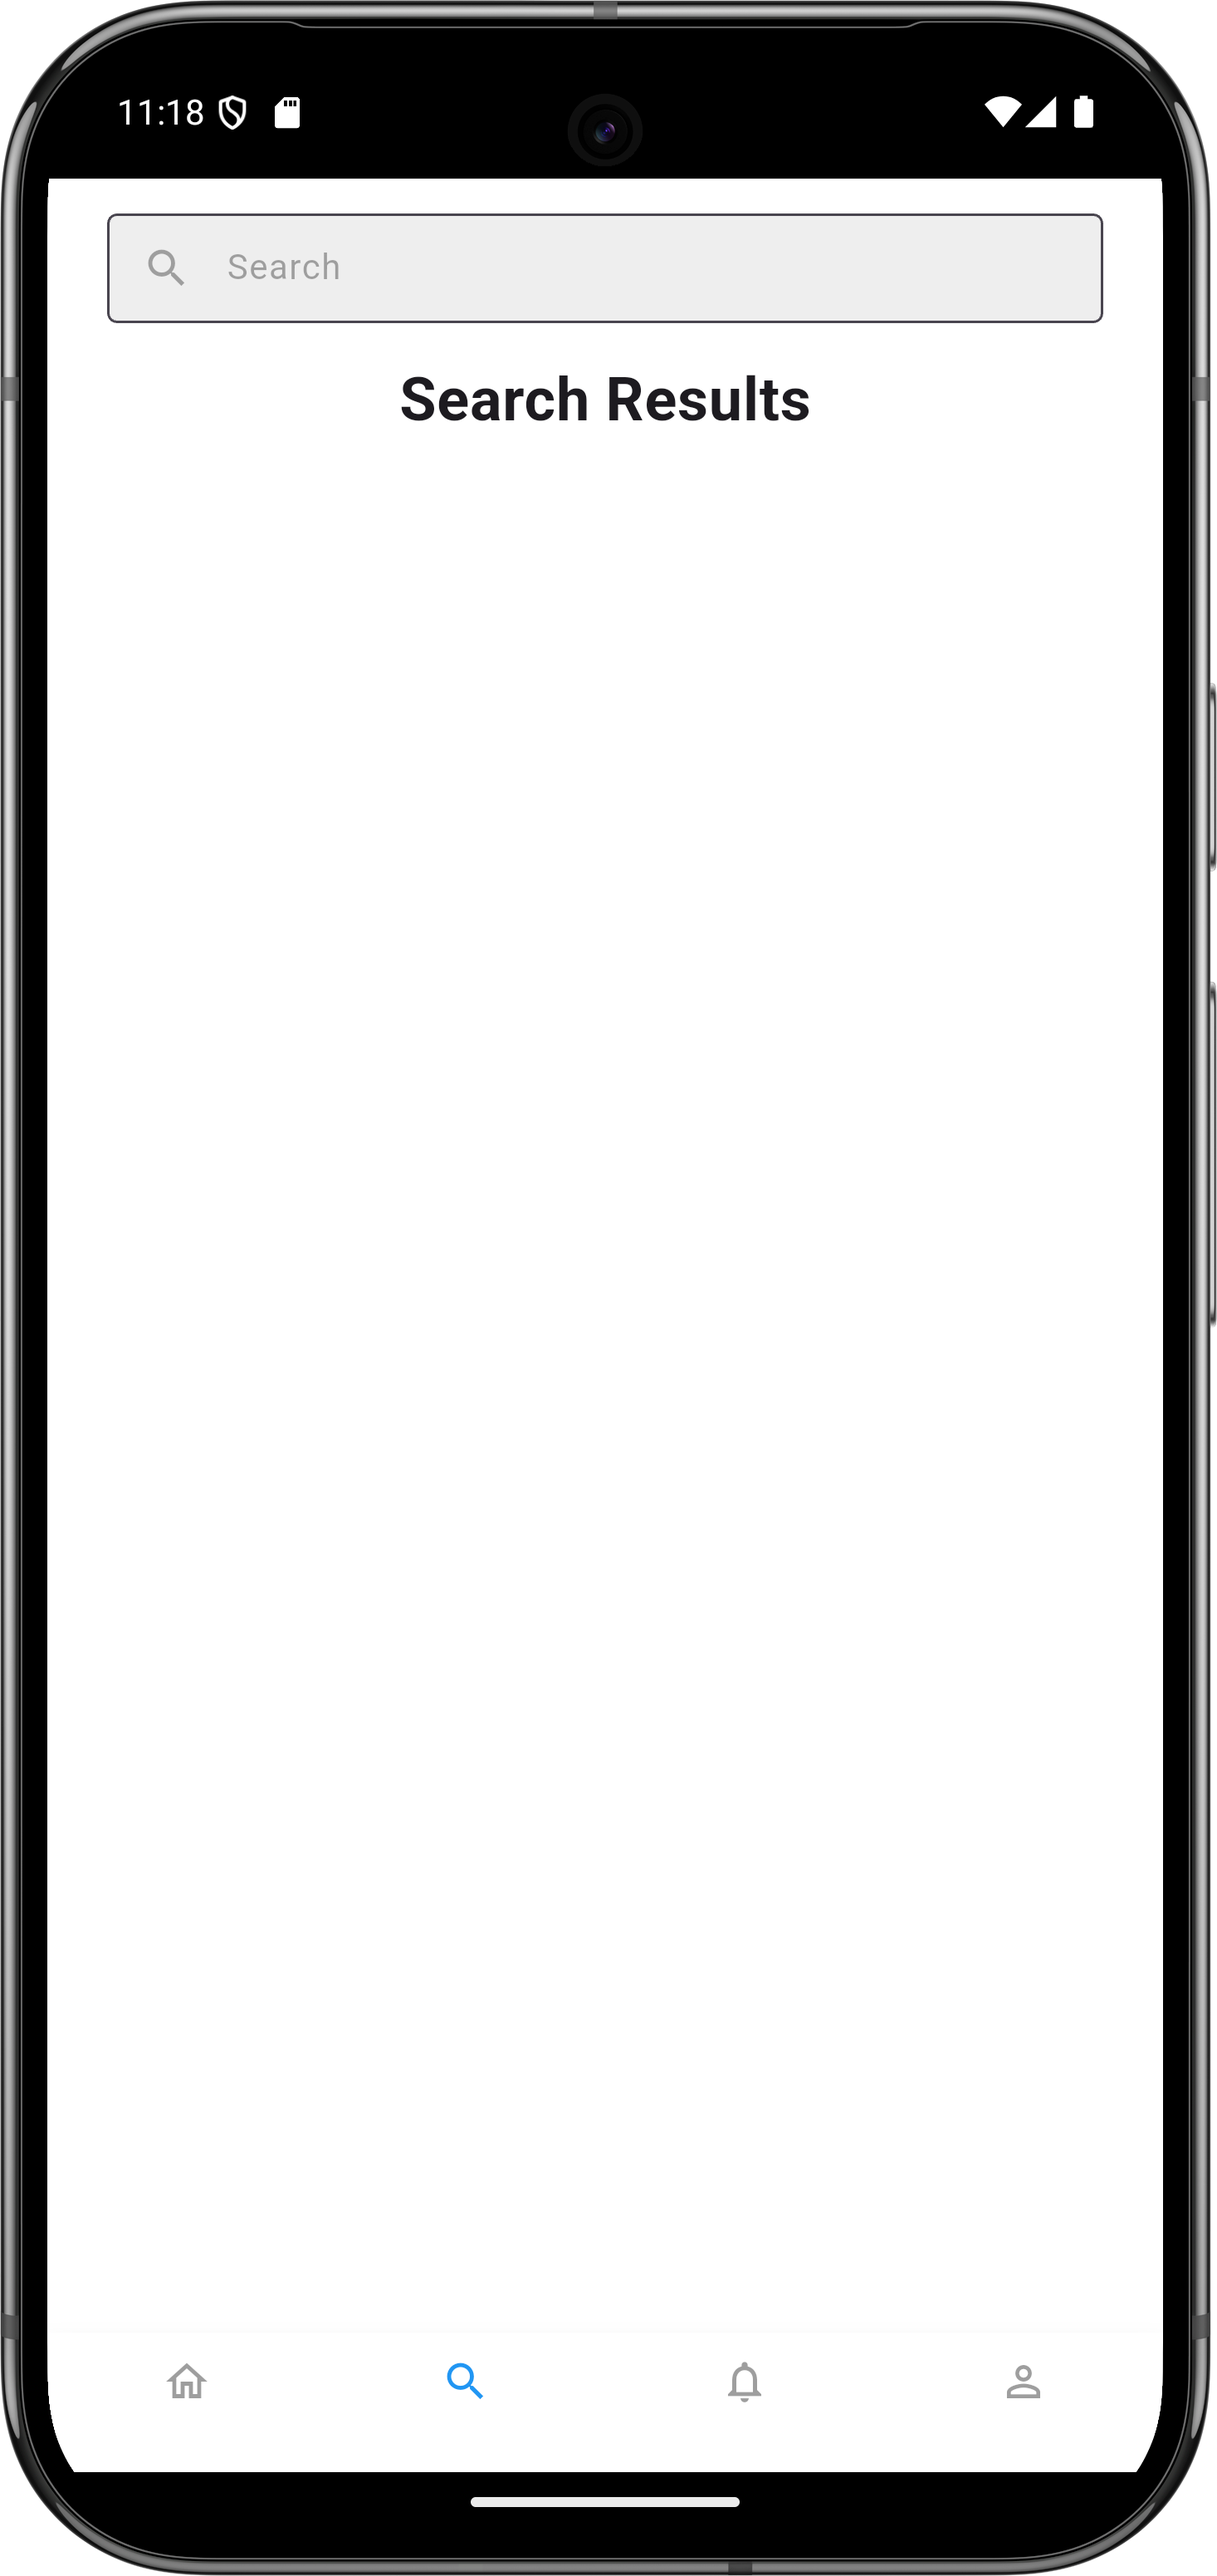
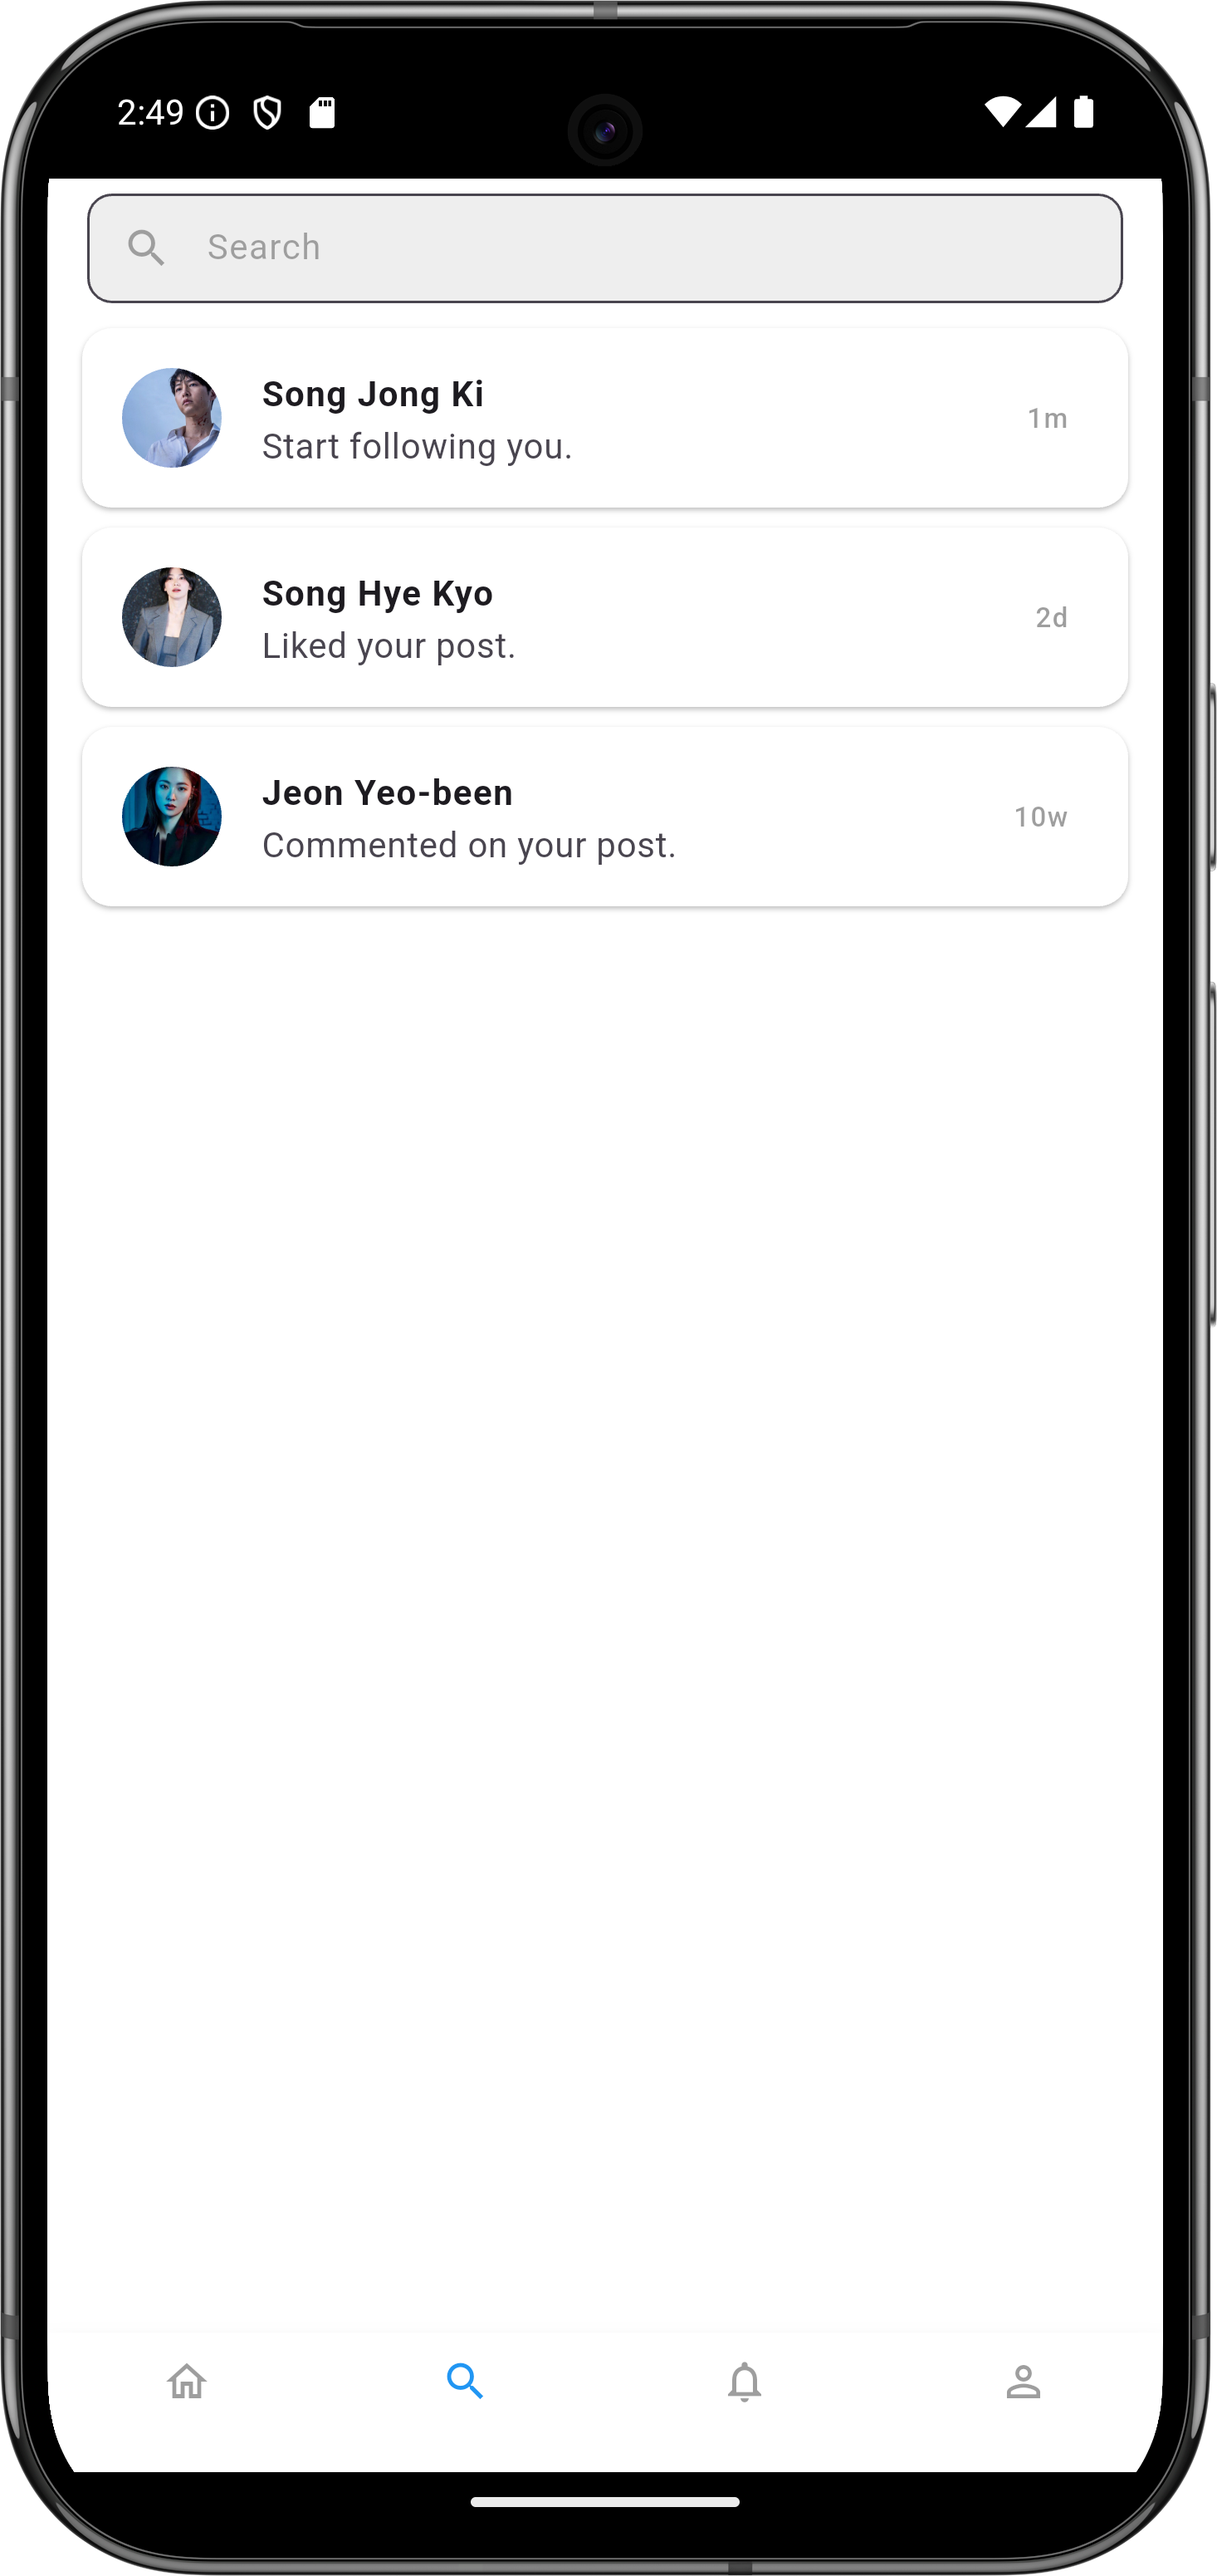
Update Search Screen

diff --git a/lib/ui/views/search_screen.dart b/lib/ui/views/search_screen.dart
@@ -8,45 +8,92 @@ class SearchScreen extends StatefulWidget {
 }
 
 class _SearchScreenState extends State<SearchScreen> {
-  TextEditingController _controller = TextEditingController();
+
+  final List<Map<String, String>> notifications = [
+    {
+      "name": "Song Jong Ki",
+      "description": "Start following you.",
+      "time": "1m",
+      "image":
+          "https://images.lifestyleasia.com/wp-content/uploads/sites/7/2025/02/05095531/Untitled-design-2025-02-05T095444.669-1600x900.jpg"
+    },
+    {
+      "name": "Song Hye Kyo",
+      "description": "Liked your post.",
+      "time": "2d",
+      "image":
+          "https://icdn.24h.com.vn/upload/1-2025/images/2025-02-13//1739410199-song-hye-kyo-di-lam-mac-kin-dao-bao-nhieu-la-o-nha-phong-khoang-bay-nhieu-_0_5_n-5204-441-width780height975.jpg"
+    },
+    {
+      "name": "Jeon Yeo-been",
+      "description": "Commented on your post.",
+      "time": "10w",
+      "image":
+          "https://static.wikia.nocookie.net/the-dramas/images/6/63/Yeobeen_-_Profile.jpg/revision/latest?cb=20240426014548"
+    },
+  ];
+
+  final TextEditingController _controller = TextEditingController();
 
   @override
   Widget build(BuildContext context) {
     return Scaffold(
       backgroundColor: Colors.white,
-      body: Column(
-        children: [
-          Padding(
-            padding: const EdgeInsets.fromLTRB(24, 14, 24, 14),
-            child: SizedBox(
-              height: 44,
-              child: TextField(
-                controller: _controller,
-                decoration: InputDecoration(
-                  prefixIcon: Icon(
-                    Icons.search,
-                    color: Colors.grey,
-                    size: 20,
-                  ),
-                  hintText: "Search",
-                  hintStyle: TextStyle(color: Colors.grey, fontSize: 14),
-                  border: OutlineInputBorder(
-                    // borderRadius: BorderRadius.circular(30.0),
-                    borderSide: BorderSide(color: Colors.grey),
-                  ),
-                  filled: true,
-                  fillColor: Colors.grey[200],
+      appBar: AppBar(
+        backgroundColor: Colors.white,
+        elevation: 0,
+        automaticallyImplyLeading: false,
+        title: SizedBox(
+          height: 44,
+          child: TextField(
+            controller: _controller,
+            decoration: InputDecoration(
+                prefixIcon: Icon(
+                  Icons.search,
+                  color: Colors.grey,
+                  size: 20,
+                ),
+                hintText: "Search",
+                hintStyle: TextStyle(color: Colors.grey, fontSize: 14),
+                border: OutlineInputBorder(
+                  borderRadius: BorderRadius.circular(10),
+                  borderSide: BorderSide(color: Colors.grey),
+                ),
+                filled: true,
+                fillColor: Colors.grey[200],
+                focusedBorder: OutlineInputBorder(
+                  borderSide: BorderSide(color: Colors.grey, width: 2.0),
+                  borderRadius: BorderRadius.circular(10.0),
+                )),
+          ),
+        ),
+      ),
+      body: ListView.builder(
+        itemCount: notifications.length,
+        itemBuilder: (context, index) {
+          var notification = notifications[index];
+          return Padding(
+            padding: const EdgeInsets.symmetric(horizontal: 10),
+            child: Card(
+              color: Colors.white,
+              child: ListTile(
+                leading: CircleAvatar(
+                  radius: 20,
+                  backgroundImage: NetworkImage(notification["image"]!),
+                ),
+                title: Text(
+                  notification["name"]!,
+                  style: TextStyle(fontSize: 14, fontWeight: FontWeight.bold),
+                ),
+                subtitle: Text(notification["description"]!),
+                trailing: Text(
+                  notification["time"]!,
+                  style: TextStyle(color: Colors.grey),
                 ),
               ),
             ),
-          ),
-          Center(
-            child: Text(
-              "Search Results",
-              style: TextStyle(fontSize: 24, fontWeight: FontWeight.bold),
-            ),
-          ),
-        ],
+          );
+        },
       ),
     );
   }

diff --git a/lib/ui/views/bottom_navigationbar_screen.dart b/lib/ui/views/bottom_navigationbar_screen.dart
@@ -1,5 +1,6 @@
 import 'package:flutter/material.dart';
 import 'package:olachat_mobile/ui/views/feed_screen.dart';
+import 'package:olachat_mobile/ui/views/notifications_screen.dart';
 import 'package:olachat_mobile/ui/views/search_screen.dart';
 import 'package:olachat_mobile/ui/views/signup_screen.dart';
 
@@ -15,10 +16,8 @@ class _BottomNavigationbarScreenState extends State<BottomNavigationbarScreen> {
   int currentTab = 0;
   final List<Widget> screens = [
     FeedScreen(),
-    SearchScreen()
-    // SignUpScreen(),
-    // SignUpScreen(),
-    // SignUpScreen(),
+    SearchScreen(),
+    NotificationsScreen(),
   ];
 
   final PageStorageBucket bucket = PageStorageBucket();

diff --git a/lib/ui/views/notifications_screen.dart b/lib/ui/views/notifications_screen.dart
@@ -1,0 +1,15 @@
+import 'package:flutter/material.dart';
+
+class NotificationsScreen extends StatefulWidget {
+  const NotificationsScreen({super.key});
+
+  @override
+  State<NotificationsScreen> createState() => _NotificationsScreenState();
+}
+
+class _NotificationsScreenState extends State<NotificationsScreen> {
+  @override
+  Widget build(BuildContext context) {
+    return const Placeholder();
+  }
+}

diff --git a/README.md b/README.md
@@ -22,3 +22,5 @@ samples, guidance on mobile development, and a full API reference.
 ![signup_screen.png](assets%2Fdemo%2Fsignup_screen.png)
 3. Feed_Screen
 ![feed_screen.png](assets%2Fdemo%2Ffeed_screen.png)
+4. Search_Screen
+![search_screen.png](assets%2Fdemo%2Fsearch_screen.png)
